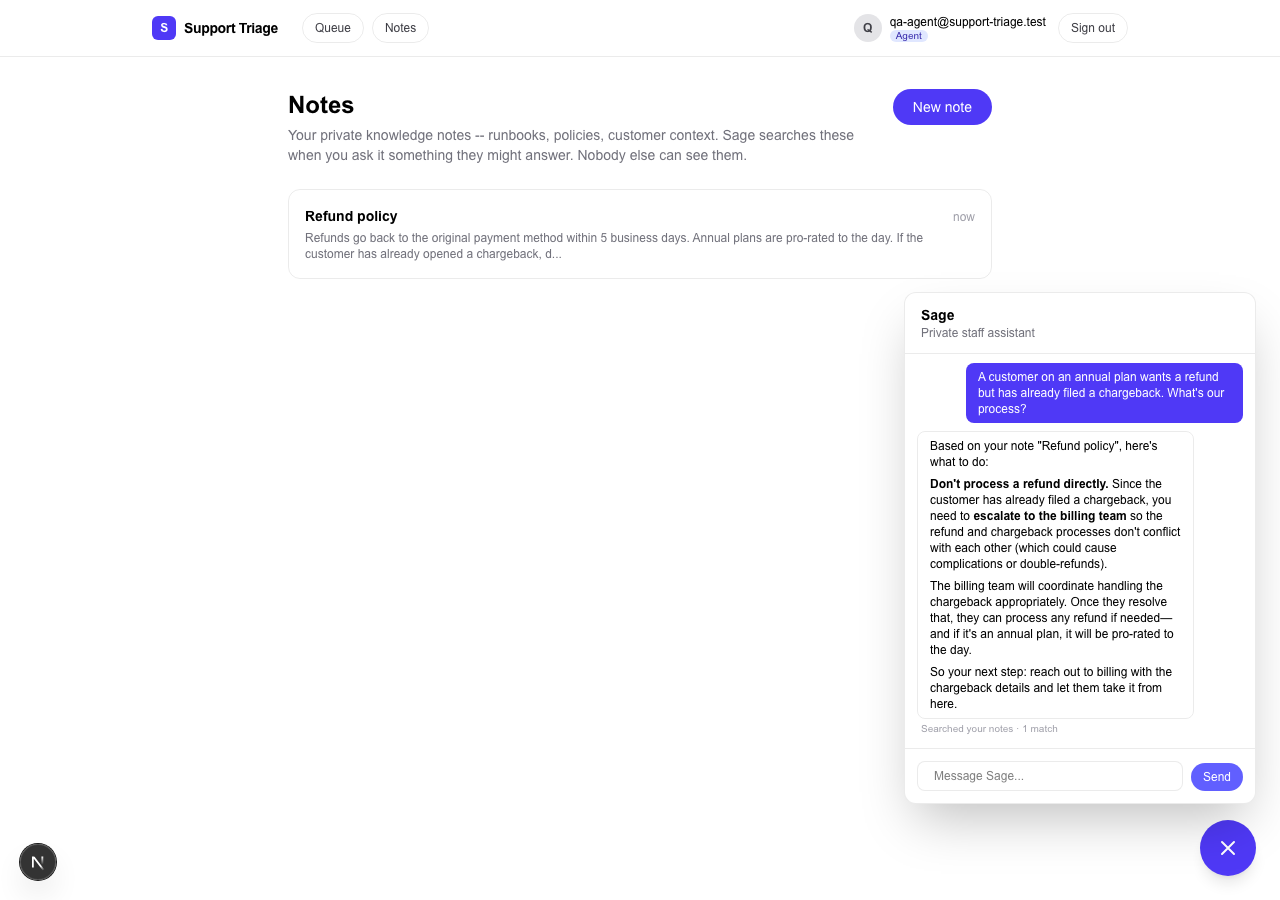
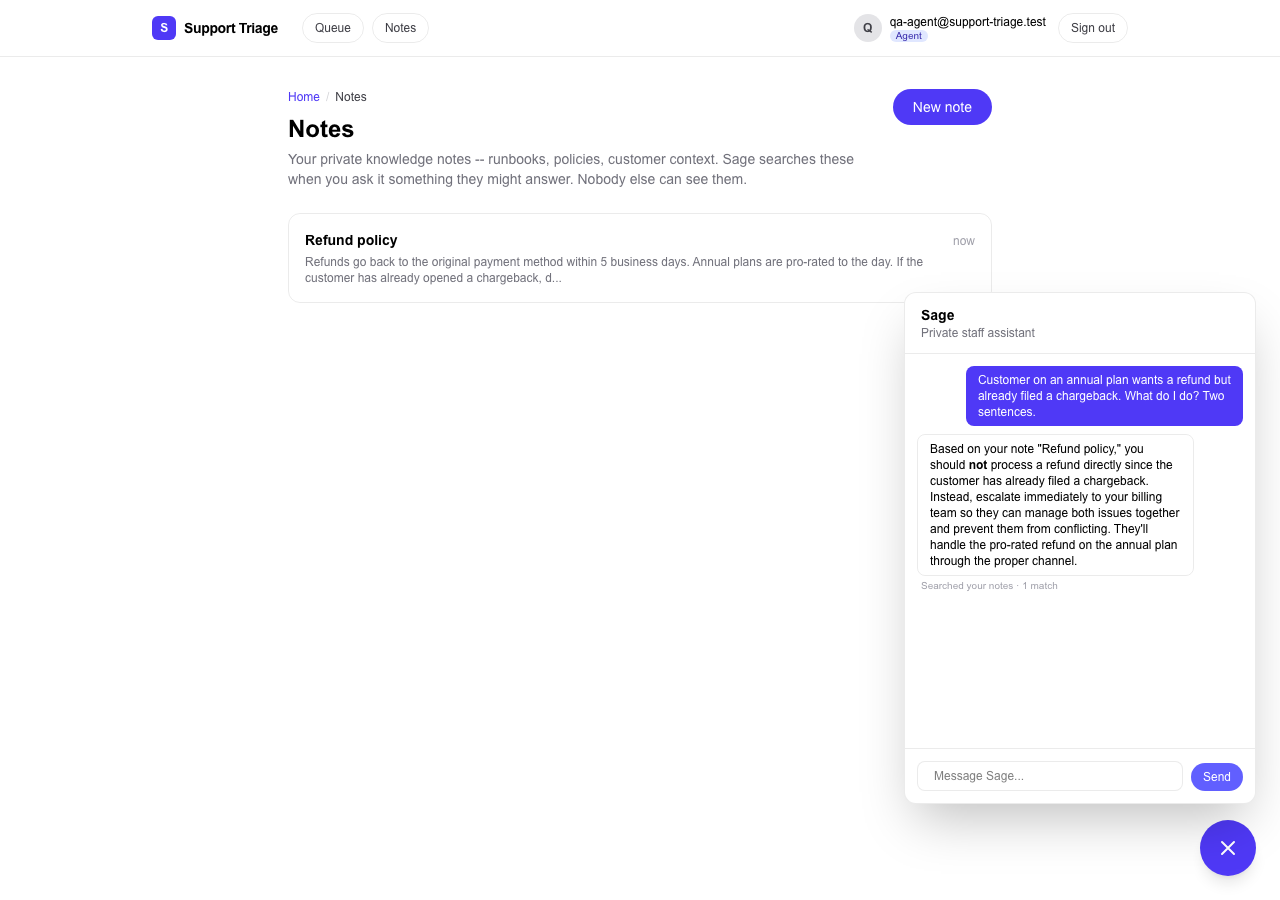
Refresh README screenshots to the current UI
Both images predated the redesigned header and the breadcrumb trails,
and the triage one still showed the old single-column ticket page.
Retaken from the running app: the ticket page opened from the
Unassigned queue tab (Home / Queue / Unassigned / <subject>) with the
completed AI triage panel and its cost line, and the Notes page
(Home / Notes) with Sage citing a note. Next's dev indicator is hidden
in both.

Changed region(s): [[0.2188, 0.0933, 0.7188, 0.3111], [0.7188, 0.4044, 0.9688, 0.8089], [0.0, 0.9333, 0.0625, 0.9956]]

diff --git a/README.md b/README.md
@@ -9,7 +9,7 @@ might start replying.
 **Live:** https://support-triage-app-one.vercel.app (requires sign-in; open it in an incognito
 window and you land on the login page, never on data).
 
-![Agent view of a ticket with the AI triage panel](docs/screenshots/ticket-triage.png)
+![Agent view of a ticket opened from the Unassigned queue tab, with the breadcrumb trail and the AI triage panel](docs/screenshots/ticket-triage.png)
 
 ## Why the AI feature is the core, not a bolt-on
 
@@ -48,7 +48,7 @@ notes** -- runbooks, policies, customer context written under **Notes** -- to an
   calling session's `auth.uid()` and runs under RLS, so there is no request that returns another
   staff member's chunks -- verified by a two-account test that also calls the RPC directly.
 
-![Sage answering from a staff member's note and citing it](docs/screenshots/sage-notes.png)
+![The Notes page with Sage answering from a staff member's note and citing it](docs/screenshots/sage-notes.png)
 
 Design and calibration notes: `docs/notes-rag.md`.
 
